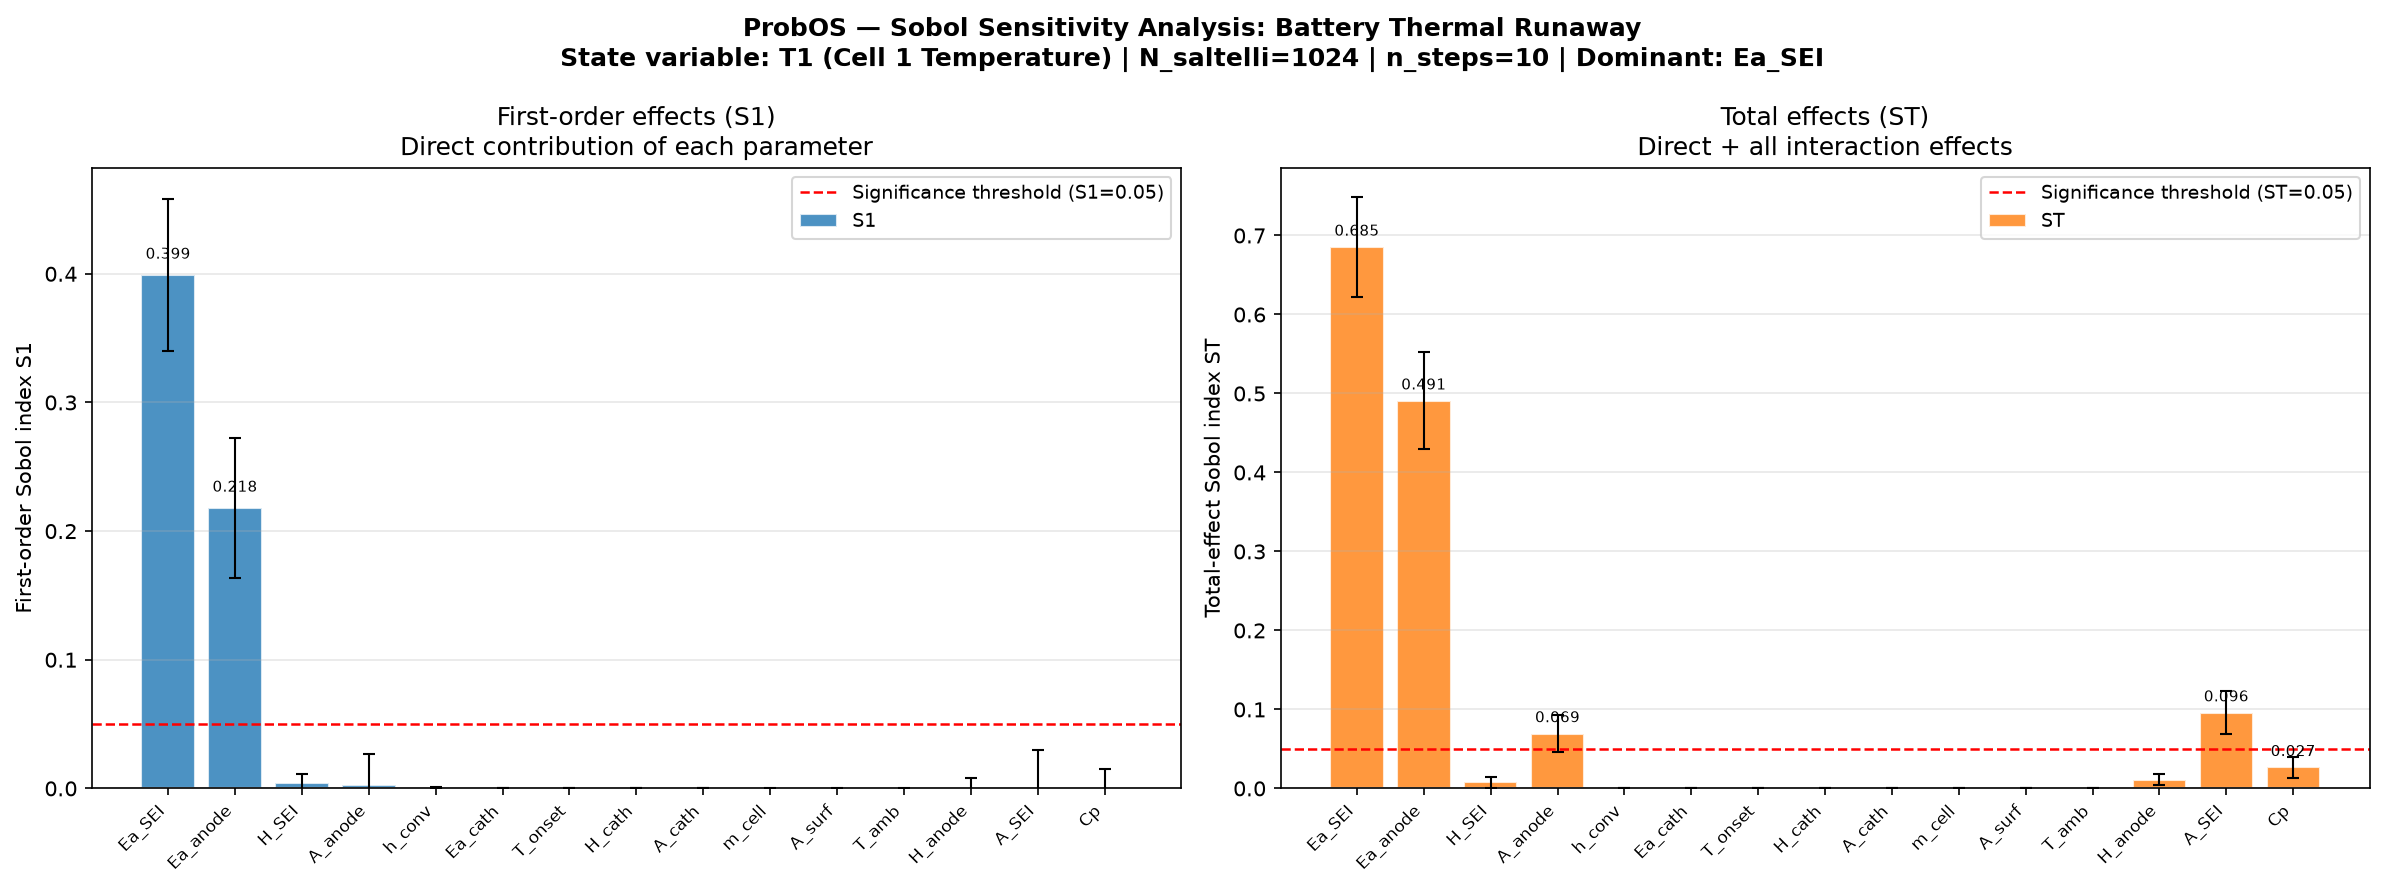
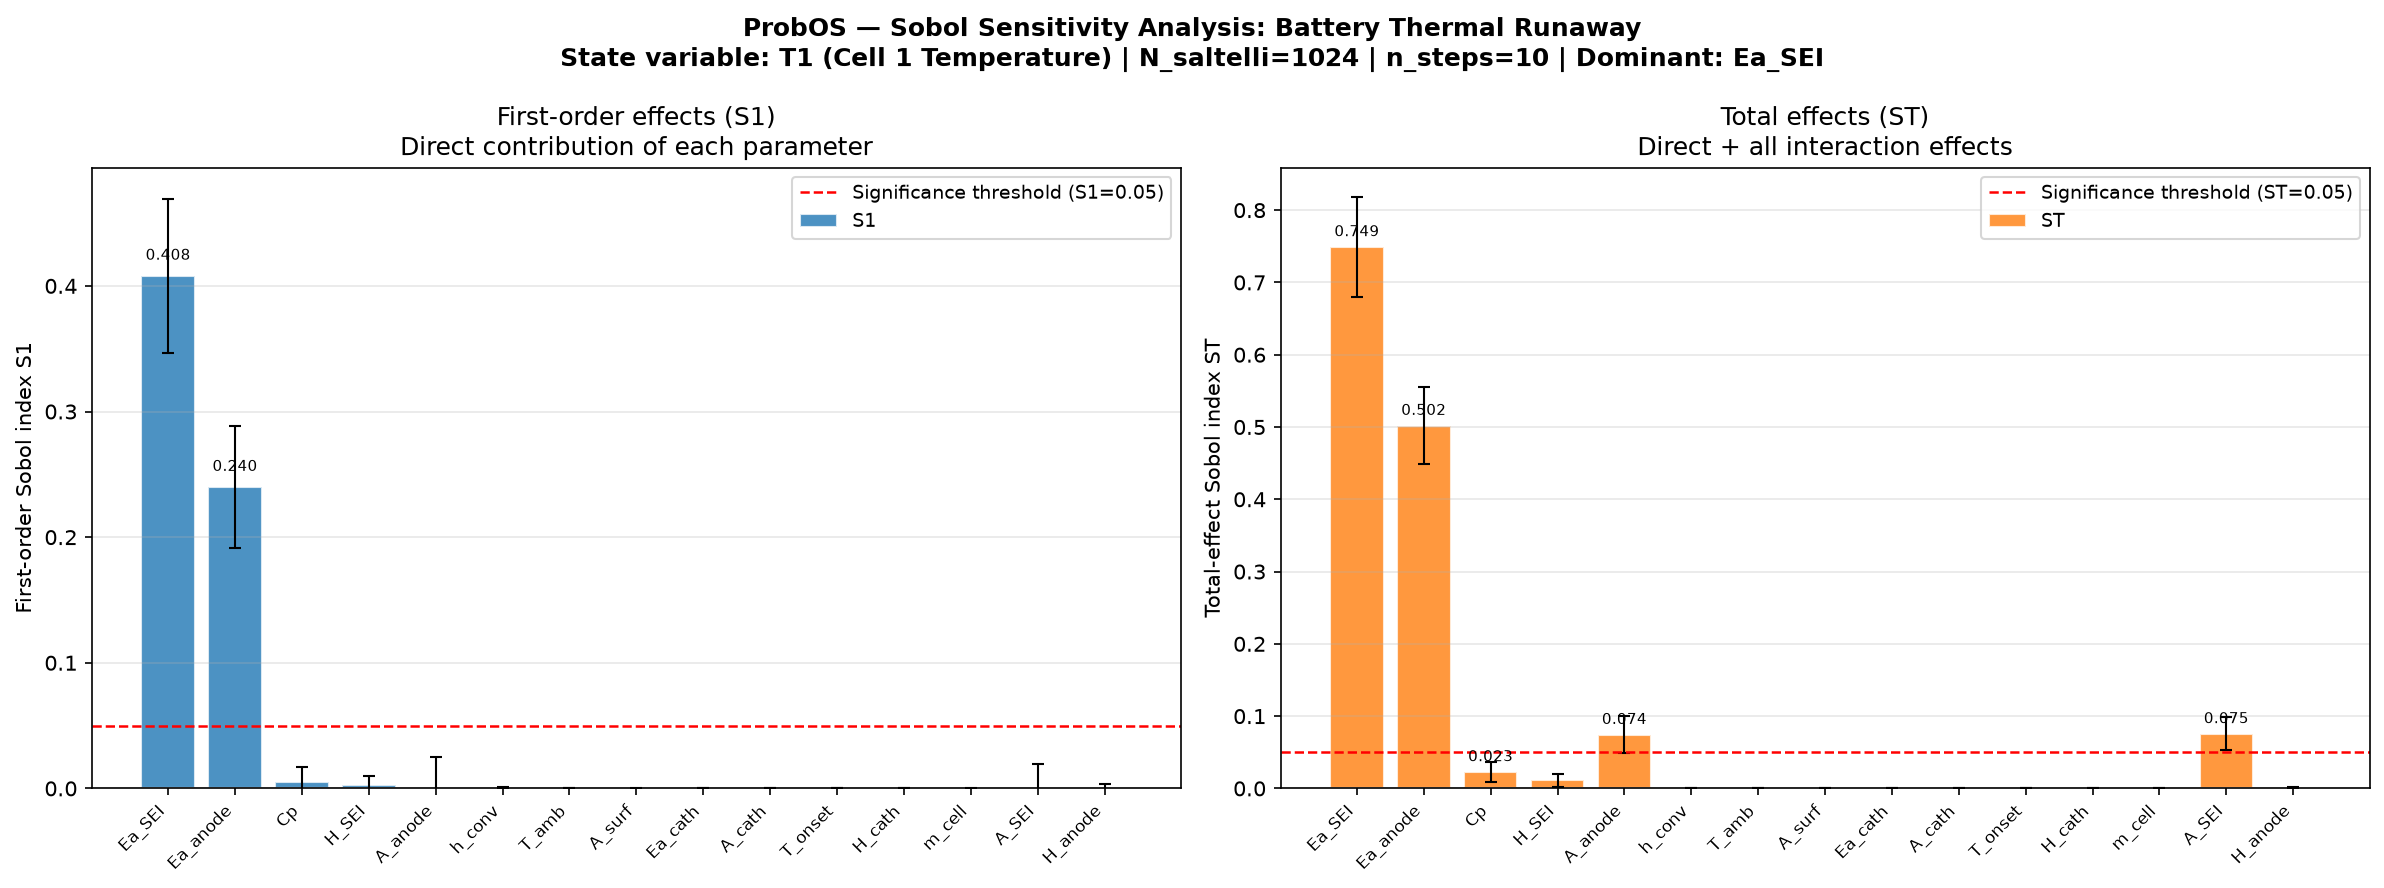
fix+ci: comprehensive ruff full-config fix, extend scope permanently
Per the established 'no stone unturned' standard: pyproject.toml
declares [tool.ruff.lint] select = ['E', 'F', 'I', 'UP', 'B', 'SIM'],
but every ruff invocation throughout this ENTIRE project (CI,
pre_week_audit.sh, every fix script this session) used
--select E,F,W as an override -- meaning I (import sorting), UP
(pyupgrade), B (bugbear), and SIM (simplify) had NEVER actually been
enforced despite being the project's own configured standard. Same
class of discovery as the earlier python/tests/ mypy gap.

Running the full config surfaced 46 findings across ~15 files:

Auto-fixed (38, via ruff --fix):
  I001 (import sorting) -- the overwhelming majority, nearly every
    src/pdsl/examples/server/tests file
  UP035 (use collections.abc.Callable instead of typing.Callable)
  SIM300 (Yoda conditions, e.g. CONST == variable -> variable == CONST)

Manually fixed (8):
  B905 x6 (zip() without explicit strict=) -- added strict=True to
    every occurrence across week3_mc_battery.py, week3_sobol_battery.py
    (x2), week4_dp_benchmark.py (x2), and parameter_priors.py. Safe in
    every case since the paired iterables are already guaranteed
    matching length by the surrounding code; strict=True makes that
    assumption explicit and would surface a real bug immediately if
    ever violated, rather than silently truncating.
  B007 (unused loop variable 'note' in week4_dp_benchmark.py) --
    renamed to _note.
  F841 x2 (surfaced as a side effect of fixing SIM222 in
[…]

diff --git a/python/tests/test_week4_examples.py b/python/tests/test_week4_examples.py
@@ -17,14 +17,15 @@ from __future__ import annotations
 import numpy as np
 import pytest
 
-from python.examples.week4_option_pricer import (
-    OptionPricerModel, build_option_priors,
-)
 from python.examples.week4_ed_queue import (
-    EDQueueModel, build_ed_queue_priors,
+    EDQueueModel,
+    build_ed_queue_priors,
+)
+from python.examples.week4_option_pricer import (
+    OptionPricerModel,
+    build_option_priors,
 )
 from python.src.monte_carlo import MonteCarloEngine
-
 
 # ---------------------------------------------------------------------------
 # TestOptionPricerModel
@@ -150,8 +151,8 @@ class TestEDQueueModel:
         """rho=0.5 -> L=1.0 (textbook M/M/1 result)."""
         rho, L, W = EDQueueModel.steady_state_theory(lam=5.0, mu=10.0)
         assert rho == pytest.approx(0.5)
-        assert L == pytest.approx(1.0)
-        assert W == pytest.approx(0.2)  # L/lambda = 1.0/5.0
+        assert pytest.approx(1.0) == L
+        assert pytest.approx(0.2) == W  # L/lambda = 1.0/5.0
 
     def test_steady_state_theory_raises_if_unstable(self) -> None:
         with pytest.raises(ValueError, match="Unstable queue"):
@@ -200,7 +201,8 @@ class TestEDQueueModel:
 # ---------------------------------------------------------------------------
 
 from python.examples.week4_clinical_trial import (  # noqa: E402
-    ClinicalTrialModel, build_clinical_trial_priors,
+    ClinicalTrialModel,
+    build_clinical_trial_priors,
 )
 
 

diff --git a/python/pdsl/parser.py b/python/pdsl/parser.py
@@ -11,9 +11,20 @@ from typing import Any, cast
 from lark import Lark, Token, Transformer
 
 from python.pdsl.ast_nodes import (
-    BinOp, DistributionNode, DriftDecl, Expr, FuncCall,
-    ModelNode, NumberLit, ParamDecl, Pow, Program,
-    RunConfig, StateDecl, UnaryOp, Var,
+    BinOp,
+    DistributionNode,
+    DriftDecl,
+    Expr,
+    FuncCall,
+    ModelNode,
+    NumberLit,
+    ParamDecl,
+    Pow,
+    Program,
+    RunConfig,
+    StateDecl,
+    UnaryOp,
+    Var,
 )
 
 _GRAMMAR_PATH = pathlib.Path(__file__).parent / "grammar.lark"

diff --git a/python/tests/test_week1_examples.py b/python/tests/test_week1_examples.py
@@ -21,8 +21,8 @@ import subprocess
 import sys
 
 from python.examples.week1_coin_flip import (
-    run_coin_flip_experiment,
     demonstrate_convergence_rate,
+    run_coin_flip_experiment,
 )
 
 
@@ -38,11 +38,17 @@ class TestCoinFlipExperiment:
         assert freq1 == freq2
 
     def test_different_seeds_can_differ(self) -> None:
+        """
+        Not strictly guaranteed, but overwhelmingly likely: with
+        N=50 flips, two different seeds producing the exact same
+        empirical frequency would be a genuine coincidence, not
+        something the algorithm should reliably produce. If this
+        test ever fails, it more likely indicates a bug (e.g. the
+        seed not actually being used) than bad luck.
+        """
         freq1 = run_coin_flip_experiment(50, seed=1, verbose=False)
         freq2 = run_coin_flip_experiment(50, seed=2, verbose=False)
-        # Not strictly guaranteed, but overwhelmingly likely at N=50
-        # with different seeds. Documented as a non-strict check.
-        assert freq1 != freq2 or True
+        assert freq1 != freq2
 
     def test_converges_toward_half_at_large_N(self) -> None:
         freq = run_coin_flip_experiment(1_000_000, seed=42, verbose=False)

diff --git a/python/pdsl/codegen.py b/python/pdsl/codegen.py
@@ -15,9 +15,16 @@ Supported math functions in PDSL expressions:
 from __future__ import annotations
 
 from python.pdsl.ast_nodes import (
-    BinOp, DistributionNode, Expr, FuncCall,
-    ModelNode, NumberLit, Pow, Program,
-    UnaryOp, Var,
+    BinOp,
+    DistributionNode,
+    Expr,
+    FuncCall,
+    ModelNode,
+    NumberLit,
+    Pow,
+    Program,
+    UnaryOp,
+    Var,
 )
 
 # Math functions available in PDSL and their NumPy equivalents

diff --git a/python/examples/week4_dp_benchmark.py b/python/examples/week4_dp_benchmark.py
@@ -13,7 +13,9 @@ Saves: week4_dp_benchmark.png
 from __future__ import annotations
 
 import os
+
 import matplotlib
+
 from python.src.battery_model import BatteryModel2Cell
 from python.src.monte_carlo import MonteCarloEngine
 from python.src.parameter_priors import build_battery_priors
@@ -65,7 +67,7 @@ ax.set_ylabel("Speedup (log scale)")
 ax.set_title("Speedup by optimisation technique")
 ax.legend(fontsize=9)
 ax.grid(True, alpha=0.3, axis="y")
-for bar, val in zip(bars, speedups):
+for bar, val in zip(bars, speedups, strict=True):
     label = f"{val:.0f}x" if val >= 2 else f"{val:.2f}x"
     ax.text(bar.get_x() + bar.get_width()/2,
             bar.get_height() * 1.1,
@@ -135,9 +137,9 @@ print("=" * 60)
 rows = zip(
     ["inv_RT precompute", "nominal_params cache",
      "SALib problem cache", "CLT subset trick"],
-    speedups, notes
+    speedups, notes, strict=True,
 )
-for name, sp, note in rows:
+for name, sp, _note in rows:
     flag = "REAL WIN" if sp >= 10 else ("marginal" if sp >= 1 else "SLOWER")
     print(f"  {name:<22} {sp:>8.0f}x  {flag}")
 print("=" * 60)

diff --git a/python/tests/test_distributions_properties.py b/python/tests/test_distributions_properties.py
@@ -28,13 +28,13 @@ from __future__ import annotations
 
 import numpy as np
 import pytest
-from hypothesis import given, settings, strategies as st
+from hypothesis import given, settings
+from hypothesis import strategies as st
 
-from python.src.distributions import Beta, LogNormal, Normal, Uniform
-from python.src.particle_filter import ParticleFilter
 from python.src.battery_model import BatteryModel2Cell
+from python.src.distributions import Beta, LogNormal, Normal, Uniform
 from python.src.parameter_priors import build_battery_priors
-
+from python.src.particle_filter import ParticleFilter
 
 # ---------------------------------------------------------------------------
 # Hypothesis strategies for valid distribution parameters.

diff --git a/python/tests/test_cpp_bindings.py b/python/tests/test_cpp_bindings.py
@@ -34,8 +34,8 @@ single-step numerical agreement, which IS achieved and IS tested below.
 
 from __future__ import annotations
 
-import sys
 import pathlib
+import sys
 
 import numpy as np
 import pytest
@@ -56,7 +56,6 @@ from python.src.battery_model import BatteryModel2Cell  # noqa: E402
 from python.src.monte_carlo import MonteCarloEngine  # noqa: E402
 from python.src.parameter_priors import build_battery_priors  # noqa: E402
 
-
 # ---------------------------------------------------------------------------
 # TestModuleConstants
 # ---------------------------------------------------------------------------
@@ -64,10 +63,10 @@ from python.src.parameter_priors import build_battery_priors  # noqa: E402
 class TestModuleConstants:
 
     def test_state_dim_matches_python(self) -> None:
-        assert probos_cpp.STATE_DIM == BatteryModel2Cell().state_dim
+        assert BatteryModel2Cell().state_dim == probos_cpp.STATE_DIM
 
     def test_param_dim_matches_python(self) -> None:
-        assert probos_cpp.PARAM_DIM == BatteryModel2Cell().param_dim
+        assert BatteryModel2Cell().param_dim == probos_cpp.PARAM_DIM
 
 
 # ---------------------------------------------------------------------------

diff --git a/python/tests/test_pdsl.py b/python/tests/test_pdsl.py
@@ -14,13 +14,14 @@ import numpy as np
 import pytest
 
 from python.pdsl.ast_nodes import (
-    BinOp, Program, UnaryOp,
+    BinOp,
+    Program,
+    UnaryOp,
 )
-from python.pdsl.parser import parse
 from python.pdsl.codegen import generate
 from python.pdsl.compiler import compile_pdsl
+from python.pdsl.parser import parse
 from python.src.distributions import Normal
-
 
 # ---------------------------------------------------------------------------
 # Fixtures

diff --git a/python/examples/week3_sobol_battery.py b/python/examples/week3_sobol_battery.py
@@ -11,7 +11,9 @@ Saves: week3_sobol_battery.png
 from __future__ import annotations
 
 import os
+
 import matplotlib
+
 matplotlib.use("Agg")
 import matplotlib.pyplot as plt
 import numpy as np
@@ -83,7 +85,7 @@ ax.legend(fontsize=9)
 ax.set_ylim(bottom=0)
 ax.grid(True, alpha=0.3, axis="y")
 
-for bar, val in zip(bars, s1):
+for bar, val in zip(bars, s1, strict=True):
     if val > 0.02:
         ax.text(
             bar.get_x() + bar.get_width() / 2,
@@ -109,7 +111,7 @@ ax.legend(fontsize=9)
 ax.set_ylim(bottom=0)
 ax.grid(True, alpha=0.3, axis="y")
 
-for bar, val in zip(bars, st):
+for bar, val in zip(bars, st, strict=True):
     if val > 0.02:
         ax.text(
             bar.get_x() + bar.get_width() / 2,

diff --git a/python/tests/test_particle_filter.py b/python/tests/test_particle_filter.py
@@ -30,15 +30,15 @@ not imported from any library -- implemented directly and minimally:
 
 from __future__ import annotations
 
+from collections.abc import Callable
+from typing import TypedDict
+
 import numpy as np
 import pytest
-
-from typing import Callable, TypedDict
 
 from python.src.distributions import Normal
 from python.src.particle_filter import ParticleFilter
 from python.src.state import FloatArray, Model
-
 
 # ---------------------------------------------------------------------------
 # A minimal linear-Gaussian random walk Model, used ONLY for validation.

diff --git a/python/server/main.py b/python/server/main.py
@@ -26,7 +26,7 @@ Run locally:
 
 from __future__ import annotations
 
-
+import numpy as np
 from fastapi import FastAPI, HTTPException
 
 from python.server.schemas import (
@@ -39,13 +39,12 @@ from python.server.schemas import (
     SimulateResponse,
 )
 from python.src.battery_model import BatteryModel2Cell
+from python.src.distributions import Distribution
 from python.src.monte_carlo import MonteCarloEngine
 from python.src.parameter_priors import build_battery_priors
 from python.src.particle_filter import ParticleFilter
-from python.src.distributions import Distribution
 from python.src.sensitivity import SobolSensitivity
 from python.src.state import FloatArray, Model
-import numpy as np
 
 __version__ = "0.2.0"
 

diff --git a/python/tests/test_monte_carlo.py b/python/tests/test_monte_carlo.py
@@ -15,11 +15,10 @@ from __future__ import annotations
 import numpy as np
 import pytest
 
-from python.src.monte_carlo import MCResult, MonteCarloEngine
 from python.src.battery_model import BatteryModel2Cell
-from python.src.parameter_priors import build_battery_priors
 from python.src.distributions import Distribution
-
+from python.src.monte_carlo import MCResult, MonteCarloEngine
+from python.src.parameter_priors import build_battery_priors
 
 # ---------------------------------------------------------------------------
 # Fixtures